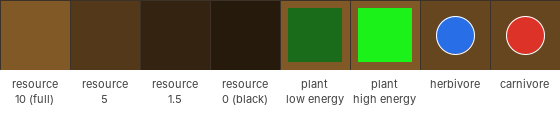
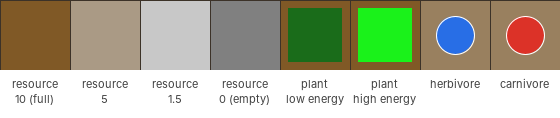
Use calmer cell colours: grey for low and empty cells
The cell background now goes from light brown (full) to light grey at
15% of the maximum (1.5 of 10) and to medium grey when empty, instead
of dark brown and black. Legend image, manual, how-to-run and decisions
updated; 2 new tests; prompt 18 added.

Claude-Session: https://claude.ai/code/session_017NBXawvAuaZY1d8ozxF4XJ

diff --git a/src/main/java/it/brunasti/simulations/toroworld/ui/WorldPanel.java b/src/main/java/it/brunasti/simulations/toroworld/ui/WorldPanel.java
@@ -17,7 +17,8 @@ import java.awt.RenderingHints;
 import java.io.Serial;
 
 /**
- * Draws the torus as a flat grid. Cell background: darker brown means less resource.
+ * Draws the torus as a flat grid. Cell background: the resource left in the cell, from light brown
+ * (full) through light grey (low) to medium grey (empty); see {@link #resourceColour(double)}.
  * Plants are green squares (brighter = more energy), herbivores blue circles,
  * carnivores red circles.
  */
@@ -65,8 +66,7 @@ public final class WorldPanel extends JPanel {
                 int w = (int) Math.round((x + 1) * cw) - x0;
                 int h = (int) Math.round((y + 1) * ch) - y0;
 
-                float r = (float) Math.min(1.0, world.resources().level(p) / maxResource);
-                g.setColor(new Color(0.15f + 0.35f * r, 0.10f + 0.25f * r, 0.05f + 0.10f * r));
+                g.setColor(resourceColour(world.resources().level(p) / maxResource));
                 g.fillRect(x0, y0, w, h);
                 g.setColor(GRID);
                 g.drawRect(x0, y0, w, h);
@@ -75,6 +75,35 @@ public final class WorldPanel extends JPanel {
                 world.animalAt(p).ifPresent(animal -> drawAnimal(g, animal, x0, y0, w, h));
             }
         }
+    }
+
+    /** Background for an empty cell (no resource left). */
+    static final Color EMPTY = new Color(128, 128, 128);
+    /** Background for a cell with little resource left (15% of the maximum, 1.5 of 10 by default). */
+    static final Color LOW = new Color(200, 200, 200);
+    /** Background for a full cell. */
+    static final Color FULL = new Color(128, 89, 38);
+    /** Fraction of the maximum resource at which the colour is {@link #LOW}. */
+    static final double LOW_FRACTION = 0.15;
+
+    /**
+     * Background colour for a cell, from the resource as a fraction of the maximum:
+     * medium grey when empty, light grey when low (15%), light brown when full,
+     * blending linearly in between.
+     */
+    static Color resourceColour(double fraction) {
+        double f = Math.max(0, Math.min(1, fraction));
+        if (f <= LOW_FRACTION) {
+            return blend(EMPTY, LOW, f / LOW_FRACTION);
+        }
+        return blend(LOW, FULL, (f - LOW_FRACTION) / (1 - LOW_FRACTION));
+    }
+
+    private static Color blend(Color from, Color to, double t) {
+        return new Color(
+                (int) Math.round(from.getRed() + (to.getRed() - from.getRed()) * t),
+                (int) Math.round(from.getGreen() + (to.getGreen() - from.getGreen()) * t),
+                (int) Math.round(from.getBlue() + (to.getBlue() - from.getBlue()) * t));
     }
 
     private void drawPlant(Graphics2D g, Plant plant, int x0, int y0, int w, int h) {

diff --git a/src/test/java/it/brunasti/simulations/toroworld/ui/WorldPanelTest.java b/src/test/java/it/brunasti/simulations/toroworld/ui/WorldPanelTest.java
@@ -1,0 +1,23 @@
+package it.brunasti.simulations.toroworld.ui;
+
+import org.junit.jupiter.api.Test;
+
+import java.awt.Color;
+
+import static org.junit.jupiter.api.Assertions.assertEquals;
+
+class WorldPanelTest {
+
+    @Test
+    void emptyCellIsMediumGreyLowCellLightGreyFullCellBrown() {
+        assertEquals(new Color(128, 128, 128), WorldPanel.resourceColour(0.0));
+        assertEquals(new Color(200, 200, 200), WorldPanel.resourceColour(0.15));
+        assertEquals(new Color(128, 89, 38), WorldPanel.resourceColour(1.0));
+    }
+
+    @Test
+    void valuesOutsideTheRangeAreClamped() {
+        assertEquals(WorldPanel.resourceColour(0.0), WorldPanel.resourceColour(-1));
+        assertEquals(WorldPanel.resourceColour(1.0), WorldPanel.resourceColour(2));
+    }
+}

diff --git a/docs/manual.md b/docs/manual.md
@@ -4,7 +4,7 @@ A general description of the simulation: what the world is, what lives in it, th
 
 > This manual describes the **current state** of the model. It is updated after every significant decision. For *why* things are the way they are, and for the open questions, see [decisions.md](decisions.md). For building, running and changing the parameters, see [how-to-run.md](how-to-run.md).
 >
-> Last updated: 2026-11-21 (after prompt 16).
+> Last updated: 2026-11-21 (after prompt 18).
 
 ## 1. What Toroworld is
 
@@ -107,21 +107,21 @@ Every organism carries its own **genome** of seven traits:
 
 ![Map legend](images/legend.png)
 
-**Cell background: the resource left in the cell.** It goes from light brown (full, 10) to **almost black** (exhausted, 0). The scale is dark: a half-full cell (5) is already dark brown.
+**Cell background: the resource left in the cell.** It goes from light brown (full, 10), through beige (half full, 5) and light grey (low, 1.5), to **medium grey** (empty, 0). The greys were chosen to stay calm: an exhausted cell should be visible without drawing the eye away from the organisms.
 
-> **A black cell is an empty cell whose resource is used up.** It has no plant and no animal, and it has nothing left to feed a new plant yet. It regains 1 per tick and turns brown again within a few ticks, unless a plant keeps draining it.
+> **A medium grey cell is an empty cell whose resource is used up.** It has no plant and no animal, and it has nothing left to feed a new plant yet. It regains 1 per tick: it turns light grey within a couple of ticks, then back towards brown, unless a plant keeps draining it.
 
 The colours are:
 
 | What you see | Meaning |
 |---|---|
-| Light brown | Cell with plenty of resource |
-| Dark brown → black | Cell with little or no resource left |
+| Light brown → beige | Cell with plenty of resource |
+| Light grey → medium grey | Cell with little or no resource left |
 | Green square, dark → bright | Plant. Brighter means more energy, closer to reproducing. |
 | Blue circle, white outline | Herbivore |
 | Red circle, white outline | Carnivore |
 
-On the default 100 x 50 grid each cell is only 8 pixels wide, so a plant fills almost the whole cell and the brown or black background shows only as a thin border. Black cells are usually cells that a plant drained before it died.
+On the default 100 x 50 grid each cell is only 8 pixels wide, so a plant fills almost the whole cell and the background shows only as a thin border. Grey cells are usually cells that a plant drained before it died.
 
 **Buttons**, at the top of the window: **Start/Pause**, **Step** (one tick), **Reset**, the **Speed** slider (ticks per second), and **Manual**, which opens this manual in a separate window.
 

diff --git a/docs/decisions.md b/docs/decisions.md
@@ -26,6 +26,7 @@ Status of each decision: **Agreed** (you decided), **Assumed** (I chose it to ma
 | A18 | **How sight is computed is part of each species' description** (`Mobility.visionBase`), to allow different kinds of carnivore later: vision × the organism's own speed (default for carnivores) or vision × the species' maximum speed. |
 | A19 | A **fractional speed** gives a matching chance of one extra cell per tick (M4). |
 | A20 | With no prey in sight, a carnivore **wanders one cell** per tick (M6). Agreed **for now**: to be revisited. |
+| A21 | **Cell colours** (prompt 18): the background goes from light brown (full) to light grey at 15% of the maximum (1.5 of 10), then to medium grey when empty, blending linearly. Replaces the brown-to-black scale, whose dark cells distracted the eye. |
 
 ## Assumed (please review)
 

diff --git a/docs/how-to-run.md b/docs/how-to-run.md
@@ -41,7 +41,7 @@ How the grid is drawn:
 
 | What you see | Meaning |
 |---|---|
-| Cell background, light brown → black | Resource in the cell, full → exhausted. A black cell is empty and has no resource left. |
+| Cell background, light brown → light grey → medium grey | Resource in the cell, full → low → exhausted. A medium grey cell is empty and has no resource left. |
 | Green square | Plant. Brighter means closer to its reproduction threshold. |
 | Blue circle | Herbivore |
 | Red circle | Carnivore |

diff --git a/docs/prompts.md b/docs/prompts.md
@@ -93,3 +93,9 @@ Now let's set the carnivore sped as an evolutionary trait, which can variate bet
 
 1 - OK
 2 - ok, for now
+
+### 18. 18:19
+
+Change the colour code of the cells.
+Replace the black with a medium grey, and the dark brown (1.5 res) with a light grey.
+The dark brown and the black are too in contrast with the rest and distract the vision....
